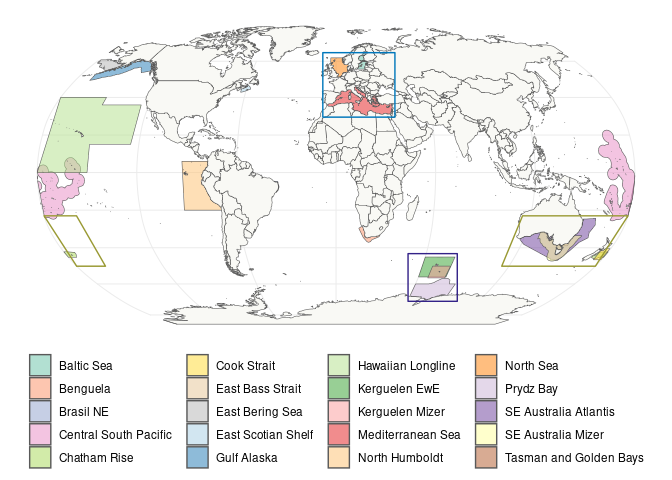
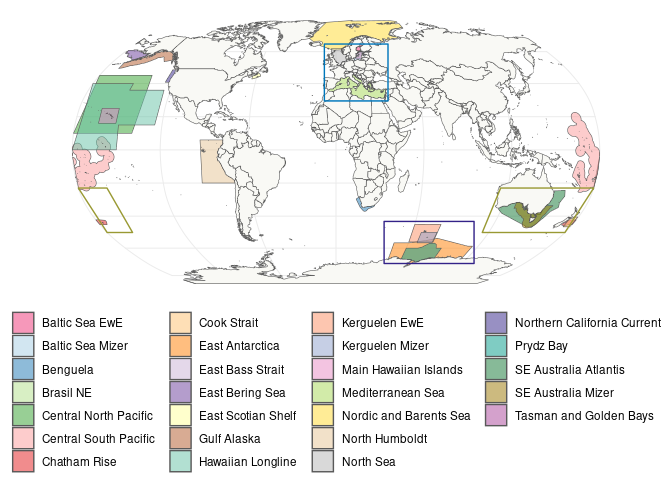
Creating regional map with new regions

Changed region(s): [[0.0, 0.0312, 1.0, 1.0], [0.25, 0.5625, 0.3125, 0.5938]]

diff --git a/Scripts/02_Mapping_Regional_Models.md b/Scripts/02_Mapping_Regional_Models.md
@@ -137,34 +137,25 @@ fishmip_reg <- read_sf("../Outputs/FishMIP_regional_models/FishMIP_regional_mode
 fishmip_reg
 ```
 
-    ## Simple feature collection with 20 features and 3 fields
+    ## Simple feature collection with 26 features and 3 fields
     ## Geometry type: MULTIPOLYGON
     ## Dimension:     XY
-    ## Bounding box:  xmin: -180 ymin: -69.8008 xmax: 180 ymax: 64.5
+    ## Bounding box:  xmin: -180 ymin: -71.9699 xmax: 180 ymax: 83.66553
     ## Geodetic CRS:  WGS 84
-    ## # A tibble: 20 × 4
-    ##    region                 models               nmbr_md                  geometry
-    ##  * <chr>                  <chr>                  <int>        <MULTIPOLYGON [°]>
-    ##  1 Baltic Sea             EwE, Mizer                 2 (((23.5 64.5, 23.5 64.05…
-    ##  2 Benguela               Atlantis, EwE, OSMO…       3 (((19.90119 -36.77948, 1…
-    ##  3 Brasil NE              EcoSpace                   1 (((-36.94482 -4.549031, …
-    ##  4 Central South Pacific  Mizer                      1 (((-168.2779 -22.09492, …
-    ##  5 Chatham Rise           Atlantis, EwE, Mizer       3 (((172 -45.33333, 172 -4…
-    ##  6 Cook Strait            EwE                        1 (((175.209 -40.5, 175.20…
-    ##  7 East Bass Strait       EwE                        1 (((150.5 -36, 150.5 -39,…
-    ##  8 East Bering Sea        Mizer                      1 (((-165.61 54.51, -165.6…
-    ##  9 East Scotian Shelf     Mizer                      1 (((-60.0875 47.2625, -60…
-    ## 10 Gulf Alaska            Mizer                      1 (((-166.2288 53.93614, -…
-    ## 11 Hawaiian Longline      Mizer                      1 (((-150 40, -150 36, -12…
-    ## 12 Kerguelen EwE          EwE                        1 (((80 -56, 75 -56, 70 -5…
-    ## 13 Kerguelen Mizer        Mizer                      1 (((79.45 -49.95, 79.45 -…
-    ## 14 Mediterranean Sea      EwE                        1 (((29.05594 41.0923, 29.…
-    ## 15 North Humboldt         OSMOSE                     1 (((-77.3643 6, -77.3643 …
-    ## 16 North Sea              EwE, Mizer                 2 (((4.99375 62, 4.995313 …
-    ## 17 Prydz Bay              EwE, Mizer                 2 (((60 -67.40114, 60 -67.…
-    ## 18 SE Australia Atlantis  Atlantis                   1 (((117.8 -35.4699, 117.8…
-    ## 19 SE Australia Mizer     Mizer                      1 (((130.8023 -31.65674, 1…
-    ## 20 Tasman and Golden Bays Atlantis, EwE, Mizer       3 (((173.0022 -40.81916, 1…
+    ## # A tibble: 26 × 4
+    ##    region                models                nmbr_md                  geometry
+    ##  * <chr>                 <chr>                   <int>        <MULTIPOLYGON [°]>
+    ##  1 Baltic Sea EwE        EwE                         1 (((23.5 64.5, 23.5 64.05…
+    ##  2 Baltic Sea Mizer      Mizer                       1 (((20.5847 54.93254, 20.…
+    ##  3 Benguela              Atlantis, EwE, OSMOSE       3 (((19.90119 -36.77948, 1…
+    ##  4 Brasil NE             EcoSpace                    1 (((-36.94482 -4.549031, …
+    ##  5 Central North Pacific ECOTRAN                     1 (((-140 10, -180 10, -18…
+    ##  6 Central South Pacific Mizer                       1 (((-168.2779 -22.09492, …
+    ##  7 Chatham Rise          Atlantis, EwE, Mizer        3 (((172 -45.33333, 172 -4…
+    ##  8 Cook Strait           EwE                         1 (((175.209 -40.5, 175.20…
+    ##  9 East Antarctica       Atlantis                    1 (((81.87166 -53.63183, 1…
+    ## 10 East Bass Strait      EwE                         1 (((150.5 -36, 150.5 -39,…
+    ## # ℹ 16 more rows
 
 # Plotting map
 
@@ -194,7 +185,8 @@ world <- ne_countries(scale = "medium", returnclass = "sf") |>
   st_transform(rob_proj)
 
 #Creating a colour palette by merging colour brewer palettes
-pal <- c(brewer.pal(8, "Set2"), brewer.pal(12, "Paired"))
+pal <- c("#ee3377", brewer.pal(12, "Paired"), brewer.pal(8, "Set2"), 
+         "#332288", "#009988", "#117733", "#997700", "#aa4499")
 
 #Reprojecting FishMIP regions
 fishmip_reg_rob <- fishmip_reg |> 
@@ -240,7 +232,6 @@ Our initial maps shows all FishMIP regions, but does not look great yet.
 We will use this as a guide to identify the areas where we will create
 the smaller maps. We will expand the following areas:  
 - Europe  
-- Brazil  
 - Australia and New Zealand  
 - East Antarctica
 
@@ -302,7 +293,7 @@ au_nz <- fishmip_reg |>
 #Extract Bass Strait region
 Tas <- fishmip_reg |> 
   filter(str_detect(region, "Bass")) |> 
-  mutate(fill = "#E5C494")
+  mutate(fill = "#CAB2D6")
 
 #Plot Bass Strait over the original AU/NZ map
 au_nz <- au_nz+
@@ -349,14 +340,14 @@ so <- reg+
   #Add world base map
   geom_sf(data = world, fill = "#f9f9f5")+
   #Focus on Australia and New Zealand
-  lims(x = c(4198611, 6800000), y = c(-7225154, -4712577))+
+  lims(x = c(3200000, 8800000), y = c(-7225154, -4712577))+
   #Add a border to map so it is easily identifiable
   theme(panel.border = element_rect(colour = "#332288", linewidth = 2),
         axis.text = element_blank(), axis.ticks = element_blank(),
         plot.margin = margin(0, 0, 0, 0, unit = "cm"))
 
 #Create a shapefile with map limits
-so_box <- st_bbox(c(xmin = 4098611, xmax = 6900000, ymax = -4612577, ymin = -7325154),
+so_box <- st_bbox(c(xmin = 3100000, xmax = 8900000, ymax = -4612577, ymin = -7325154),
                   crs = rob_proj) |>
   st_as_sfc()
 
@@ -384,9 +375,9 @@ main
 ``` r
 #Merging main map and insets
 final_map <- ggdraw(main)+
-  draw_plot(au_nz, x = .75, y = 0.675, width = 0.22, height = 0.3)+
-  draw_plot(so, x = .7, y = 0.36, width = 0.33, height = 0.325)+
-  draw_plot(europe, x = .72, y = 0.04, width = 0.3, height = 0.3)
+  draw_plot(au_nz, x = .805, y = 0.675, width = 0.185, height = 0.3)+
+  draw_plot(so, x = .815, y = 0.38, width = 0.175, height = 0.30)+
+  draw_plot(europe, x = .75, y = 0.04, width = 0.3, height = 0.3)
 
 final_map <- final_map+
   theme(plot.margin = margin(l = -5, unit = "cm"))
@@ -410,7 +401,8 @@ server](http://portal.sf.utas.edu.au/thredds/catalog/gem/fishmip/catalog.html).
 
 ``` r
 #Saving final map
-ggsave("../Outputs/FishMIP_regional_models_insets.pdf", final_map, device = "pdf", width = 22.5, height = 10, units = "cm")
+ggsave("../Outputs/FishMIP_regional_models_insets.pdf", final_map, device = "pdf", 
+       width = 22.5, height = 10, units = "cm")
 
 #Saving main map with just regions and no insets
 ggsave("../Outputs/FishMIP_regional_models.pdf", reg, device = "pdf")
